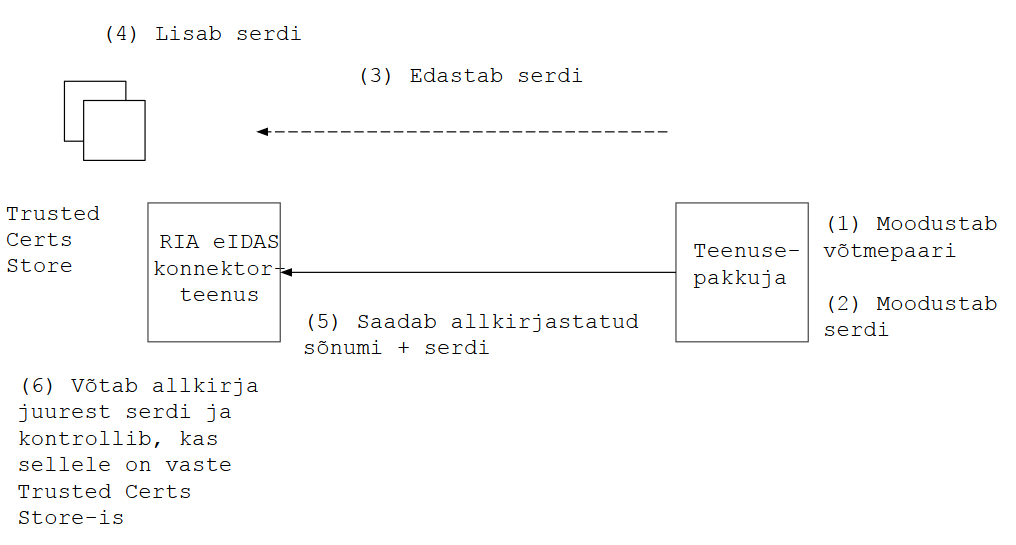
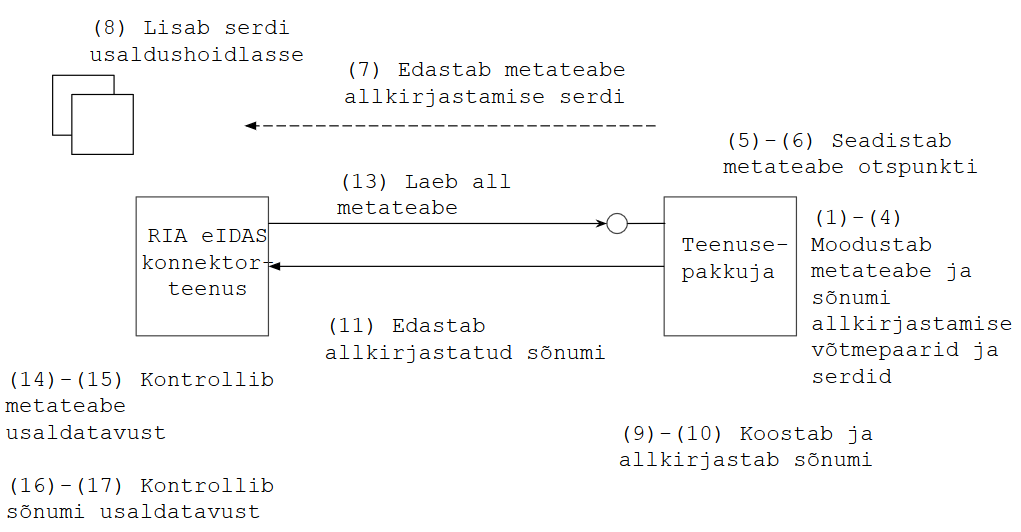
+

diff --git a/Usaldusehaldus.md b/Usaldusehaldus.md
@@ -1,8 +1,30 @@
 ---
-permalink: Usaldusehaldus
+permalink: Usaldustoimingud
 ---
 
-# Usaldusehaldus
+# eIDAS konnektorteenus. Usaldustoimingud
+
+## Ülevaade
+
+Käesolev juhend määratleb tehnilised toimingud usalduse tagamisel eIDAS konnektorteenuse siseriiklikes liidestes.
+
+konnektorteenuse osutaja (RIA) ja teenusekasutaja (asutuse) tehnilised usalduse ja krüptograafiliste võtmete haldusega (_Trust Management_, _Key Management_) seotud toimingud. 
+
+## Mõisted ja tähistused
+
+_usaldushaldus_, _Trust Management_ - sõnumivahetuse autentsuse saavutamisele suunatud toimingud, nii konnektorteenuse osutaja (RIA) kui ka teenusekasutaja (asutuse) poolel. Seotud, kuid mitte võrdne võtmehaldusega
+_võtmehaldus_, _Key Management_ - krüptograafiliste võtmetega seotud toimingud: loomine, edastamine, kasutamine - võtme kogu elukaare ulatuses 
+_Asutus_ - asutus, kelle süsteem konnektorteenust tarbib; kitsamalt - asutuse süsteemihaldur
+_RIA_ - RIA süsteemihaldur vm töötaja, kes on volitatud paigaldustoiminguid tegema
+_Konnektorteenus_ - RIA taristus paigaldatud tarkvarasüsteem, kuulub eIDAS Node koosseisu
+_Teenusepakkuja süsteem (Service Provider, SP) - asutuse süsteem, mis tarbib konnektorteenust ja osutab e-teenust kasutajale
+_Usaldushoidla_ - RIA konnektorteenuse juures peetav usaldatavate sertide hoidla (_Trusted Certs Store_). Tehniliselt teostatud Java Keystore vm abil.
+_sõnum_ - teenusepakkuja süsteemi poolt konnektorteenusele saadetav SAML sõnum; sisaldab autentimispäringut. 
+
+_allkirja valideerimine_ - sisaldab kolme sammu:
+    - allkirja vormingu valideerimine. Kontrollimine, et allkiri vastab XML ja SAML-allkirja vormingule.
+    - _krüptograafiline valideerimine_. Kasutades allkirja juures olevat serti, kontrollitakse, et allkiri on tõepoolest moodustatud serdis sisalduvale avalikule võtmele vastava privaatvõtmega. Sellega saadakse kindlus, et allkirjastatud sõnumit ei ole muudetud.
+    - _usaldatavuse kontrollimine_. Kontrollitakse, et allkirjastamisel kasutatud võti on usaldatav.
 
 ## Vajadus
 
@@ -11,7 +33,49 @@ Süsteemis on vaja lahendada võtmehalduse (_key management_) ja "usaldusehaldus
 - dokumenteeritud
 - osapooltele kommunikeeritud
 - tarkvaras teostatav
-    - Märkus. Oluline piirang on meie tahtmine eIDAS Node-i tarkvara ümbertegemist vältida. 
+
+## Piirangud
+
+Olulised piirangud:
+- Oluline piirang on meie tahtmine eIDAS Node-i tarkvara ümbertegemist võimalikult vältida.
+- ***eIDAS Node-i tarkvaras praegu ei ole teostatud usaldusahela kontrolli***.
+- Arvestama peab ka, et eIDAS Node-is võtme- ja usaldushaldusega tegelevaid komponente saab ***sõlmede omavaheliseks ja siseriiklikuks suhtluseks erinevalt seadistada ainult piiratud ulatuses***.
+
+## Toimingud
+
+Ettevalmistavad toimingud (usalduse loomine)
+
+nr | Osapool | Tegevus | Selgitus
+1  | Asutus  | Moodustab metateabe allkirjastamise võtmepaari |
+2  | Asutus  | Moodustab metateabe allkirjastamise serdi |
+3  | Asutus  | Moodustab sõnumi allkirjastamise võtmepaari |
+4  | Asutus  | Moodustab sõnumi allkirjastamise serdi |
+5  | Asutus  | Lisab moodustatud serdid oma süsteemi seadistusse |
+6  | Teenusepakkuja süsteem | Genereerib seadistuse põhjal metateabe | SAML-vomingus XML-fail on teenusepakkuja metateabe otspunktist kättesaadav 
+7  | Asutus | Edastab metateabe allkirjastamise serdi RIA-le | Edastatakse turvalise _out of band_ kanali kaudu. Edastuse korraldus lepitakse kokku otsesuhtluses RIA ja Asutuse vahel
+8  | RIA   | Lisab metateabe allkirjastamise serdi usaldushoidlasse
+
+Sõnumivahetuse usaldustoimingud
+
+nr | Osapool | Tegevus | Selgitus
+9  | Teenusepakkuja süsteem | Koostab sõnumi | Lisab sõnumisse (`Issuer` elementi) metateabe otspunkti URL-i
+10  | Teenusepakkuja süsteem | Allkirjastab sõnumi. Sõnumile lisab sõnumi allkirjastamise serdi  | Kasutab sõnumi allkirjastamise privaatvõtit
+11 | Teenusepakkuja süsteem | Edastab allkirjastatud sõnumi konnektorteenusele |
+12 | Konnektorteenus | Teeb metateabe krüptograafilise valideerimise | Saab kindluse, et allkirjastatud metateavet ei ole muudetud
+13 | Konnektorteenus | Võtab sõnumist teenusepakkuja metateabe URL-i ja laeb alla  metateabe | Kasutades puhverdamist. Puhverdamist tüüritakse konnektorteenuse seadistusparameetriga `nonDistributedMetadata.retention` ja teenusepakkuja metateabe parameetriga `validUntil`
+14 | Konnektorteenus | Teeb metateabe krüptograafilise valideerimise | Saab kindluse, et allkirjastatud metateavet ei ole muudetud
+15 | Konnektorteenus | Kontrollib metateabe allkirjastamisel kasutatud võtme usaldatavust | Võrdleb metateabe allkirjastamise serti usaldushoidla sertidega. Allkirjastamise sert peab sisalduma usaldushoidlas
+16 | Konnektorteenus | Võtab metateabest sõnumi allkirjastamise serdi | Võib puhverdada
+17 | Konnektorteenus | Kontrollib sõnumi allkirjastamisel kasutatud võtme usaldatavust | Võrdleb metateabe allkirjastamise serti usaldushoidla sertidega. Allkirjastamise sert peab sisalduma usaldushoidlas
+  | LÕPP. Sõnumi usaldatavus on kontrollitud |
+
+Ülevaade toimingutest on esitatud joonisel 1.
+
+<img src='img/VOTMED-01.PNG' style='width:700px'>
+
+Joonis 1
+
+## Kirjandus
 
 Metoodika. Teatud (üpris üldisi) juhiseid saab väljaannetest:
 - NIST 800-130 (2013) [A Framework for Designing Cryptographic Key Management Systems](http://nvlpubs.nist.gov/nistpubs/SpecialPublications/NIST.SP.800-130.pdf)
@@ -19,61 +83,3 @@ Metoodika. Teatud (üpris üldisi) juhiseid saab väljaannetest:
     - [Part 1 Recommendation for Key Management](http://nvlpubs.nist.gov/nistpubs/SpecialPublications/NIST.SP.800-57pt1r4.pdf)
     - [Part 2 Best Practices for Key Management Organization](https://csrc.nist.gov/publications/detail/sp/800-57-part-2/final)
 - vt ka [A Profile for U.S. Federal Cryptographic Key Management Systems](http://nvlpubs.nist.gov/nistpubs/SpecialPublications/NIST.SP.800-152.pdf)
-
-## Lähteskeem
-
-Tugineb koodi uurimisel
-
-<img src='img/VOTMED-01.PNG' style='width:700px'>
-
-## eIDAS Node koodi uurimise märkmed
-
-***Teenusepakkuja SAML-autentimispäringu allkirja valideerimine konnektorteenuses***
-
-3 sammu:
-- valideerimine SAML-i profiili vastu. Tagab, et allkiri vastab XML allkirja standardile
-- krüptograafiline valideerimine. Tagab, et allkirjastatud sõnumit ei ole muudetud
-- usaldatavuse kontrollimine. Tagab, et allkirjastamisel kasutatud võti on usaldatav. Tehakse tavaliselt teist kanalit pidi saabunud võtmega võrdlemisel. Tavaliselt metateabes publitseeritud serdiga võrdlemisel. Vt [Verifying signatures with OpenSAML](http://blog.samlsecurity.com/2012/11/verifying-signatures-with-opensaml.html).
-
-`processAuthenticationRequest` klassis `SpecificEidasConnector`. "This class is specific on the connector side and should be modified by each member state if they want to use any different settings."
-
-->
-
-`unmarshallRequestAndValidate`, klassis `ProtocolEngine`. "The protocol engine is responsible for implementing the protocol between the eIDAS Connector and the eIDAS ProxyService."
-
--> 
-
-`unmarshallRequest` 
-
-->
-
-`validateSignature`, parameetritega `signedObject` ja `trustedCertificates(Collection<X509Certificate>)`, klassis `AbstractProtocolSigner`
-
-->
-
-`validateSignatureWithCredentials`
-
-->
-
-`verifyCryptographicSignature`
-
-->
-
-`getTrustedCertificate`
-
-->
-
-`checkTrust` (annab lihtsalt järje üle), klassis `CertificateUtil`
-
-->
-
-`validate`, OpenSAML 2 klassis `ExplicitKeyTrustEvaluator`
-
--> mitu edasisuunamist, päädib
-
-````
-boolean validate(Key untrustedKey, Key trustedKey) {
-        return untrustedKey.equals(trustedKey);
-    }
-````
-

diff --git a/index.md b/index.md
@@ -41,7 +41,7 @@ eIDAS konnektorteenust osutab Riigi Infosüsteemi Amet.
 
 NIST 800-130 (2013) [A Framework for Designing Cryptographic Key Management Systems](http://nvlpubs.nist.gov/nistpubs/SpecialPublications/NIST.SP.800-130.pdf)
 
-[Usaldusehaldus](Usaldusehaldus)
+[Usaldustoimingud](Usaldustoimingud)
 
 ---- 
 
